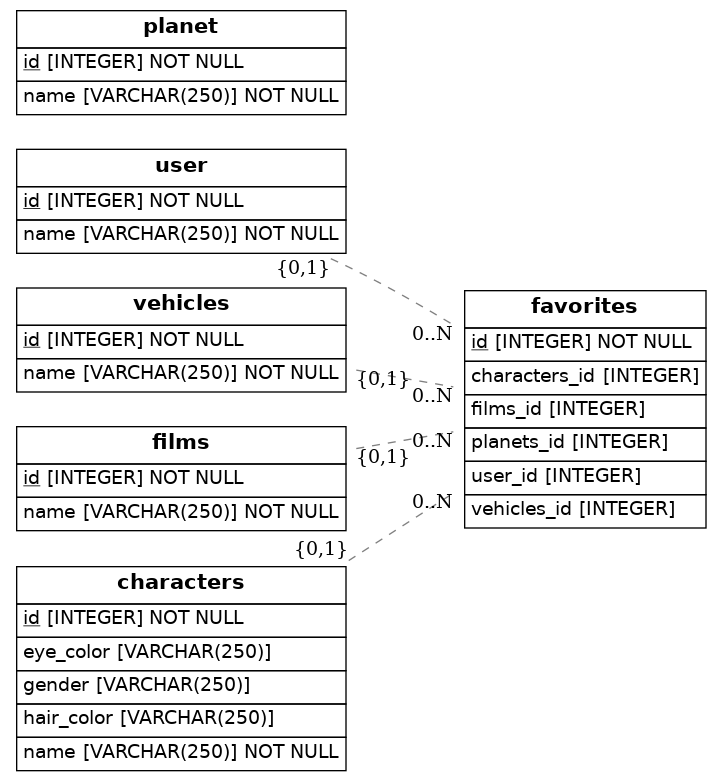
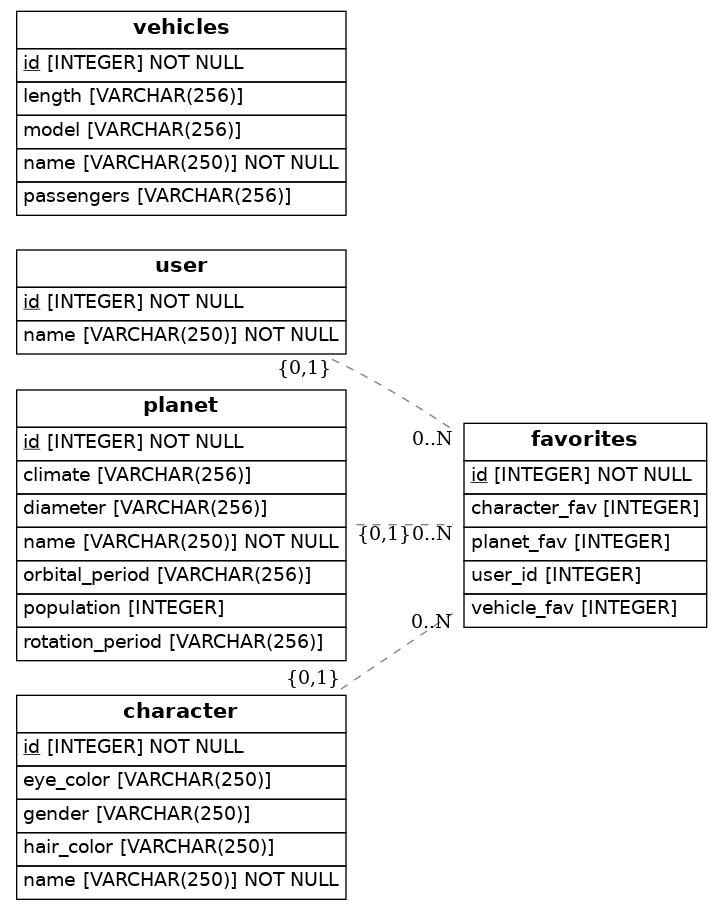
new diagram

Changed region(s): [[0.0, 0.0, 1.0, 1.0]]

diff --git a/src/models.py b/src/models.py
@@ -19,40 +19,42 @@ class Vehicles(Base):
     __tablename__ = "vehicles"
     id = Column(Integer, primary_key=True)
     name = Column(String(250), nullable=False)
+    model = Column(String(256))
+    passengers = Column(String(256))
+    length = Column(String(256))
+    favorite_vehicle = relationship("Favorite")
 
 class Planet(Base):
     __tablename__ = "planet"
     id = Column(Integer, primary_key=True)
     name = Column(String(250), nullable=False)
+    climate = Column(String(256))
+    population = Column(Integer)
+    orbital_period = Column(String(256))
+    rotation_period = Column(String(256))
+    diameter = Column(String(256))
+    favorite_planet = relationship("Favorite")
 
-class Films(Base):
-    __tablename__ = "films"
-    id = Column(Integer, primary_key=True)
-    name = Column(String(250), nullable=False)
-
-class Characters(Base):
-    __tablename__ = "characters"
+class Character(Base):
+    __tablename__ = "character"
     id = Column(Integer, primary_key=True)
     name = Column(String(250), nullable=False)
     eye_color = Column(String(250))
     hair_color = Column(String(250))
     gender = Column(String(250))
+    favorite_character = relationship("Favorite")
 
 class Favorites(Base):
     __tablename__ = 'favorites'
-    # Here we define columns for the table address.
-    # Notice that each column is also a normal Python instance attribute.
     id = Column(Integer, primary_key=True)
     user_id = Column(Integer, ForeignKey('user.id'))
-    characters_id = Column(Integer, ForeignKey('characters.id'))
-    planets_id = Column(Integer, ForeignKey('planets.id'))
-    vehicles_id = Column(Integer, ForeignKey('vehicles.id'))
-    films_id = Column(Integer, ForeignKey('films.id'))
-    planet = relationship(Planet)
-    user = relationship(User)
-    vehicles = relationship(Vehicles)
-    films = relationship(Films)    
-
+    character_fav = Column(Integer,ForeignKey('character.id'))
+    planet_fav = Column(Integer,ForeignKey('planet.id'))
+    vehicle_fav = Column(Integer,ForeignKey('vehicle.id'))
+    character_relation = relationship ('Character', back_populates = 'favorite_character')
+    vehicle_relation = relationship ('Vehicle', back_populates = 'favorite_vehicle')
+    planet_relation = relationship ('Planet', back_populates = 'favorite_planet')
+    
     def to_dict(self):
         return {}
 
